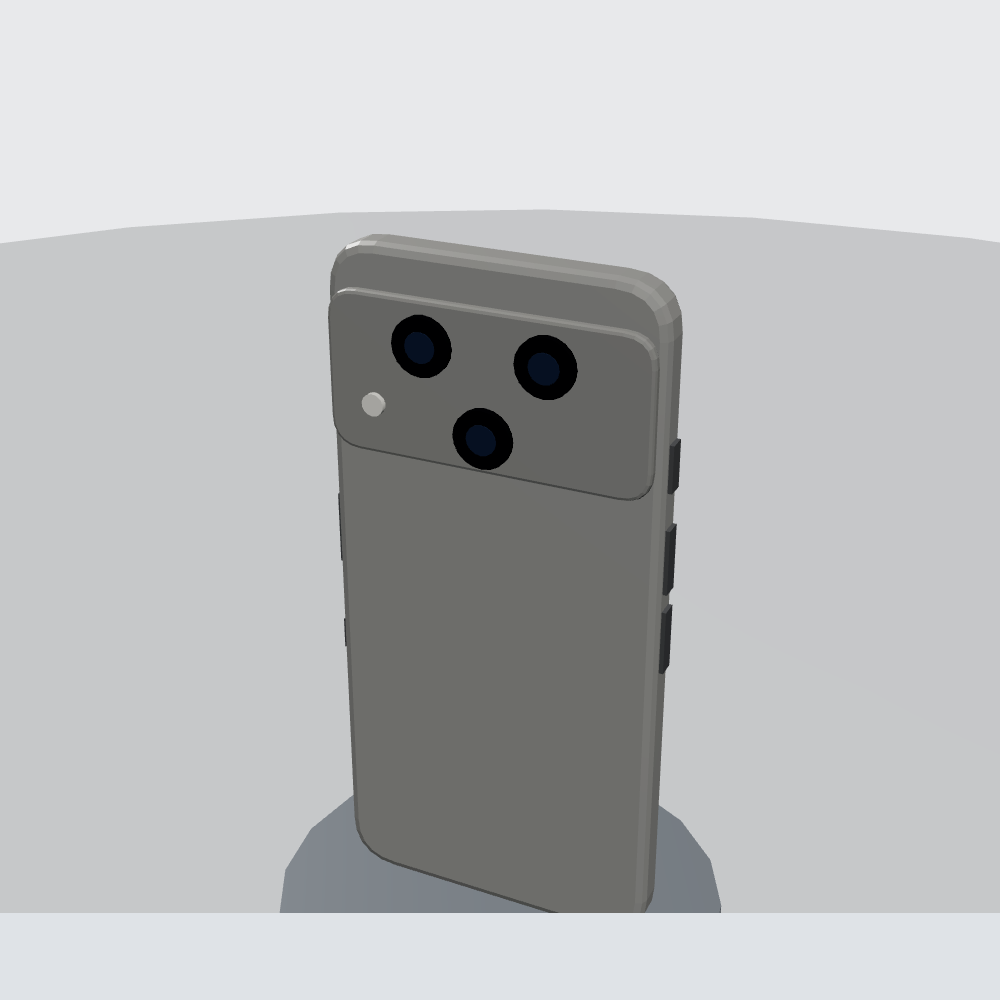
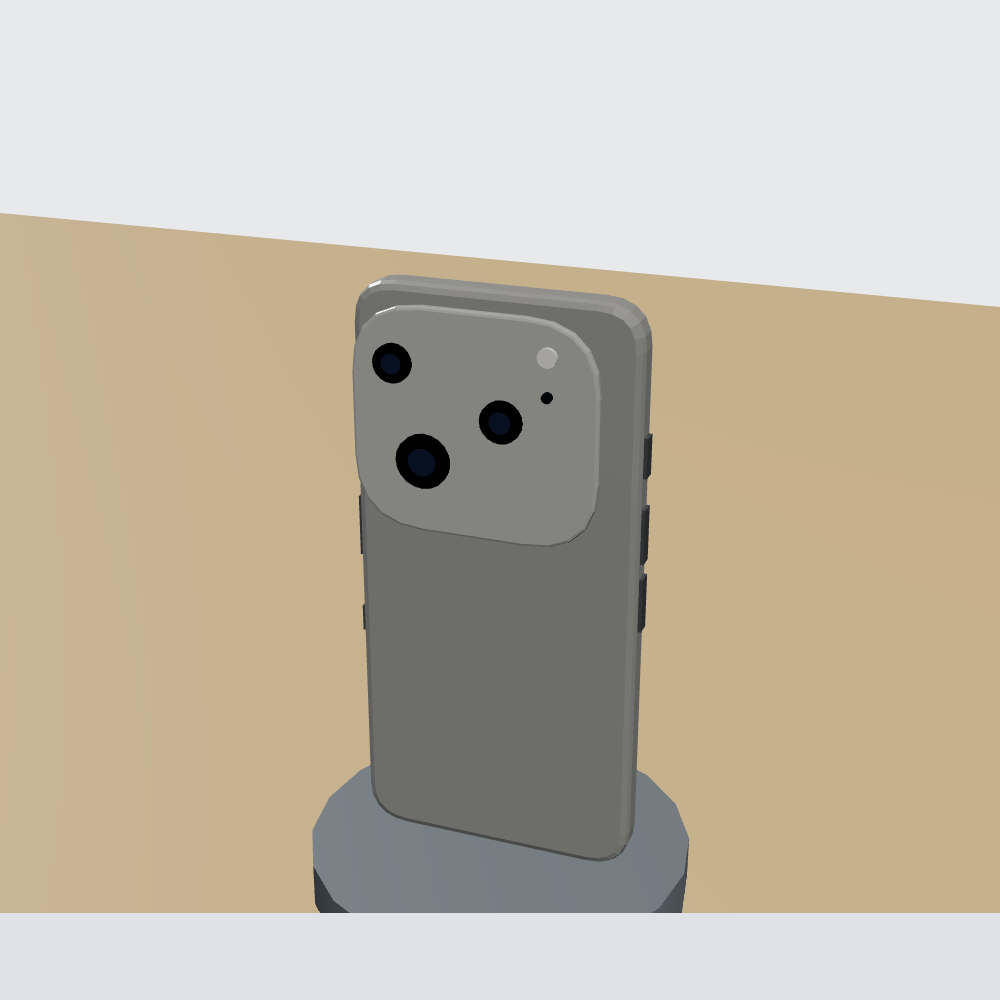
iPhone 18 Pro pilot model: square camera plateau, L-shaped lenses, home/lock screens
Corrected lens-cluster layout and the camera plateau shape (square, not
full-width) against a real marketing photo Ritesh supplied, after the first
pass got both wrong from pre-launch leak coverage. Added a home-screen vs
lock-screen toggle on phone screens (ScreenMode), and the ?device=1
DeviceStage dev route for orbiting one product alone, on a table-surface
scrap, for the per-model look check.

diff --git a/src/client/src/gfx/phones.tsx b/src/client/src/gfx/phones.tsx
@@ -70,8 +70,14 @@ export const SCREEN_WALLPAPERS: Array<[string, string, string]> = [
 
 export const screenCache = new Map<string, CanvasTexture>();
 
-export function screenTexture(kind: "phone" | "tablet" | "laptop" | "tabletKb" | "watch", variant: number): CanvasTexture {
-  const key = `${kind}:${variant}`;
+export type ScreenMode = "home" | "lock";
+
+// `home`: the app-grid look used everywhere today (sleek, modern — a device
+// someone is actually using). `lock`: the default lock screen a marketing
+// photo shows — just the wallpaper, a big time and date, a Dynamic-Island
+// pill, no app grid. Phone/tablet only; watch and laptop ignore `mode`.
+export function screenTexture(kind: "phone" | "tablet" | "laptop" | "tabletKb" | "watch", variant: number, mode: ScreenMode = "home"): CanvasTexture {
+  const key = `${kind}:${variant}:${mode}`;
   let tex = screenCache.get(key);
   if (tex) return tex;
   const [a, b, c] = SCREEN_WALLPAPERS[variant % SCREEN_WALLPAPERS.length];
@@ -94,6 +100,33 @@ export function screenTexture(kind: "phone" | "tablet" | "laptop" | "tabletKb" |
     g.arc(W * 0.72, H * 0.7, H * 0.34, 0, Math.PI * 2);
     g.fill();
     g.globalAlpha = 1;
+    if (mode === "lock" && (kind === "phone" || kind === "tablet")) {
+      // Dynamic-Island pill
+      g.fillStyle = "#0a0a0c";
+      const islandW = W * 0.34;
+      g.beginPath();
+      g.roundRect(W / 2 - islandW / 2, H * 0.025, islandW, H * 0.028, H * 0.014);
+      g.fill();
+      // big time, like the marketing lock-screen shots
+      g.fillStyle = "#ffffff";
+      g.textAlign = "center";
+      g.shadowColor = "rgba(0,0,0,0.35)";
+      g.shadowBlur = 4;
+      g.font = `600 ${Math.round(H * 0.15)}px -apple-system, system-ui, sans-serif`;
+      g.fillText("9:41", W / 2, H * 0.34);
+      g.font = `500 ${Math.round(H * 0.045)}px -apple-system, system-ui, sans-serif`;
+      g.fillText("Friday, 9 October", W / 2, H * 0.4);
+      g.shadowBlur = 0;
+      // bottom controls: flashlight and camera shortcuts
+      g.fillStyle = "rgba(255,255,255,0.22)";
+      for (const cx of [W * 0.18, W * 0.82]) {
+        g.beginPath();
+        g.arc(cx, H * 0.92, H * 0.035, 0, Math.PI * 2);
+        g.fill();
+      }
+      g.textAlign = "left";
+      return;
+    }
     if (kind === "watch") {
       g.fillStyle = "#0c0d10";
       g.fillRect(0, 0, W, H);
@@ -120,6 +153,122 @@ export function screenTexture(kind: "phone" | "tablet" | "laptop" | "tabletKb" |
       g.moveTo(W / 2, H / 2);
       g.lineTo(W / 2 - 6, H / 2 - 34);
       g.stroke();
+      return;
+    }
+    if (mode === "home" && kind === "phone") {
+      // a modern home screen: status bar, Dynamic Island, two widgets,
+      // a 4x4 icon grid, a search pill and a dock (no real app logos —
+      // icons are plain glyphs on invented colours).
+      g.fillStyle = "#ffffff";
+      g.textAlign = "left";
+      g.font = `600 ${Math.round(H * 0.032)}px -apple-system, system-ui, sans-serif`;
+      g.fillText("9:41", W * 0.05, H * 0.034);
+      g.textAlign = "right";
+      g.font = `${Math.round(H * 0.024)}px -apple-system, system-ui, sans-serif`;
+      g.fillText("▲○▮", W * 0.95, H * 0.032); // signal / wifi / battery, as plain glyphs
+      g.textAlign = "left";
+      const islandW = W * 0.3;
+      g.fillStyle = "#0a0a0c";
+      g.beginPath();
+      g.roundRect(W / 2 - islandW / 2, H * 0.048, islandW, H * 0.026, H * 0.013);
+      g.fill();
+      // two widgets
+      const gap = W * 0.045;
+      const wy = H * 0.1;
+      const wh = H * 0.165;
+      const ww = (W - gap * 3) / 2;
+      g.fillStyle = "rgba(20,30,45,0.55)";
+      g.beginPath();
+      g.roundRect(gap, wy, ww, wh, 8);
+      g.fill();
+      g.fillStyle = "#fff";
+      g.font = `600 ${Math.round(wh * 0.34)}px -apple-system, system-ui, sans-serif`;
+      g.fillText("18°", gap + 6, wy + wh * 0.5);
+      g.font = `400 ${Math.round(wh * 0.2)}px -apple-system, system-ui, sans-serif`;
+      g.fillText("Clear", gap + 6, wy + wh * 0.78);
+      g.fillStyle = "rgba(60,90,70,0.6)";
+      g.beginPath();
+      g.roundRect(gap * 2 + ww, wy, ww, wh, 8);
+      g.fill();
+      g.fillStyle = "rgba(255,255,255,0.85)";
+      g.beginPath();
+      g.arc(gap * 2 + ww + ww * 0.3, wy + wh * 0.4, wh * 0.16, 0, Math.PI * 2);
+      g.fill();
+      g.strokeStyle = "rgba(255,255,255,0.5)";
+      g.lineWidth = 1.5;
+      g.beginPath();
+      g.moveTo(gap * 2 + ww + ww * 0.15, wy + wh * 0.8);
+      g.lineTo(gap * 2 + ww + ww * 0.85, wy + wh * 0.65);
+      g.stroke();
+      // 4x4 icon grid, each a flat glyph (circle / ring / bars / square) so
+      // every tile reads as a different app without copying one
+      const gridTop = wy + wh + H * 0.03;
+      const cols4 = 4;
+      const rows4 = 4;
+      const cell = (W - gap * (cols4 + 1)) / cols4;
+      const pitch = cell + gap;
+      const palette = ["#ff9f0a", "#30d158", "#0a84ff", "#ff453a", "#5e5ce6", "#ffd60a", "#64d2ff", "#ff375f"];
+      for (let r = 0; r < rows4; r++) {
+        for (let k = 0; k < cols4; k++) {
+          const ix = gap + k * pitch;
+          const iy = gridTop + r * (cell + gap * 0.9);
+          const tint = palette[(variant * 3 + r * cols4 + k) % palette.length];
+          g.fillStyle = tint;
+          g.beginPath();
+          g.roundRect(ix, iy, cell, cell, cell * 0.24);
+          g.fill();
+          g.fillStyle = "rgba(255,255,255,0.92)";
+          const glyph = (r * cols4 + k) % 4;
+          const cx = ix + cell / 2;
+          const cy = iy + cell / 2;
+          if (glyph === 0) {
+            g.beginPath();
+            g.arc(cx, cy, cell * 0.22, 0, Math.PI * 2);
+            g.fill();
+          } else if (glyph === 1) {
+            g.fillRect(cx - cell * 0.2, cy - cell * 0.2, cell * 0.4, cell * 0.4);
+          } else if (glyph === 2) {
+            g.beginPath();
+            g.moveTo(cx, cy - cell * 0.22);
+            g.lineTo(cx + cell * 0.2, cy + cell * 0.16);
+            g.lineTo(cx - cell * 0.2, cy + cell * 0.16);
+            g.closePath();
+            g.fill();
+          } else {
+            g.lineWidth = cell * 0.08;
+            g.strokeStyle = "rgba(255,255,255,0.92)";
+            g.beginPath();
+            g.arc(cx, cy, cell * 0.2, 0.3, Math.PI * 1.4);
+            g.stroke();
+          }
+        }
+      }
+      // search pill, then a dock of 4 icons
+      const dockY = H * 0.93;
+      g.fillStyle = "rgba(230,230,235,0.3)";
+      g.textAlign = "center";
+      g.beginPath();
+      g.roundRect(W * 0.3, dockY - H * 0.095, W * 0.4, H * 0.034, H * 0.017);
+      g.fill();
+      g.fillStyle = "rgba(255,255,255,0.8)";
+      g.font = `${Math.round(H * 0.02)}px -apple-system, system-ui, sans-serif`;
+      g.fillText("Search", W / 2, dockY - H * 0.073);
+      g.textAlign = "left";
+      g.fillStyle = "rgba(235,235,240,0.4)";
+      g.beginPath();
+      g.roundRect(gap * 0.6, dockY - H * 0.004, W - gap * 1.2, H * 0.085, 10);
+      g.fill();
+      const dockPitch = (W - gap * 1.2) / 4;
+      const dockColours = ["#30d158", "#0a84ff", "#34c759", "#ff453a"];
+      for (let i = 0; i < 4; i++) {
+        const ix = gap * 0.6 + i * dockPitch + dockPitch * 0.14;
+        const iy = dockY + H * 0.008;
+        const s = dockPitch * 0.72;
+        g.fillStyle = dockColours[i];
+        g.beginPath();
+        g.roundRect(ix, iy, s, s, s * 0.26);
+        g.fill();
+      }
       return;
     }
     // status bar and a grid of app tiles
@@ -188,6 +337,7 @@ export function PhoneDevice({
   rotY,
   colour,
   model,
+  screenMode = "home",
 }: {
   kind: "phone" | "watch" | "earbuds" | "headphones" | "speaker" | "airtag";
   x: number;
@@ -196,9 +346,10 @@ export function PhoneDevice({
   rotY: number;
   colour: string;
   model?: string;
+  screenMode?: ScreenMode;
 }) {
   const spec = kind === "phone" && model ? PHONE_MODELS[model] : undefined;
-  const plateauColour = useMemo(() => shade(colour, 0.88), [colour]);
+  const plateauColour = useMemo(() => shade(colour, 0.78), [colour]);
   const built = useMemo(() => (spec ? buildPhoneBody(spec, colour, plateauColour) : null), [spec, colour, plateauColour]);
   return (
     <group position={[x, y, z]} rotation={[0, rotY, 0]}>
@@ -220,7 +371,7 @@ export function PhoneDevice({
           )}
           <mesh position={[0, 0, spec.thickness / 2 + 0.0004]}>
             <planeGeometry args={[spec.width * 0.86, spec.length * 0.9]} />
-            <meshBasicMaterial map={screenTexture("phone", SCREEN_VARIANT(colour))} toneMapped={false} />
+            <meshBasicMaterial map={screenTexture("phone", SCREEN_VARIANT(colour), screenMode)} toneMapped={false} />
           </mesh>
           <mesh position={[0, -spec.length / 2 - 0.006, 0]}>
             <cylinderGeometry args={[0.05, 0.05, 0.012, 20]} />

diff --git a/src/client/src/gfx/phones-geo.ts b/src/client/src/gfx/phones-geo.ts
@@ -131,7 +131,7 @@ export const torus = (R: number, t: number, rs = 8, ts = 24, arc = Math.PI * 2) 
 // every phone model: a camera-plateau shape, its lenses and a button layout
 // drive the geometry, so a new model is a new spec, not new drawing code.
 
-export type PlateauShape = "full-width" | "square" | "none";
+export type PlateauShape = "square" | "none";
 
 export interface PhoneModelSpec {
   id: string;
@@ -141,22 +141,28 @@ export interface PhoneModelSpec {
   cornerRadius: number; // m
   plateau: {
     shape: PlateauShape;
-    height: number; // m, vertical extent of the plateau block
-    inset: number; // m from the top edge to the plateau's top edge
+    width: number; // m
+    height: number; // m
+    radius: number; // m, the plateau's own (large, "squircle") corner rounding
+    inset: number; // m from the body's top edge to the plateau's top edge
     thickness: number; // m, how far the plateau stands proud of the back
-    lensRadius: number; // m, outer ring radius
-    lensPositions: Array<[number, number]>; // offsets from the plateau centre, m
-    flashOffset?: [number, number]; // offset from the plateau centre, m
+    lenses: Array<{ pos: [number, number]; r: number }>; // offsets from the plateau centre, m; first lens drawn is the main (largest)
+    extras?: Array<{ pos: [number, number]; r: number; colour: string }>; // flash, LiDAR, mic holes etc, offsets from the plateau centre, m
   };
   buttons: Array<{ side: -1 | 1; y: number; len: number }>; // y: m from body centre, +ve toward the top edge
 }
 
-// iPhone 18 Pro (6.3"): 150.0 x 71.9 x 8.75 mm, aluminium unibody, full-width
-// camera plateau (thicker than the 17 Pro's, ~11.5 mm total over the plateau),
-// 3-lens triangle (main, ultra wide, telephoto) with flash/LiDAR to the right,
-// action button + camera control added to the classic volume/side buttons.
-// Source: apple.com/au/iphone-18-pro/specs, apple.com/au/shop/buy-iphone/iphone-18-pro,
-// macrumors.com/roundup/iphone-18-pro (plateau shape) — fetched 2026-10-12.
+// iPhone 18 Pro (6.3"): 150.0 x 71.9 x 8.75 mm, aluminium unibody. Corrected
+// 2026-10-12 against a real marketing photo Ritesh supplied (not a web
+// fetch — no URL to cite, flagged for the catalogue doc): the plateau is a
+// large rounded SQUARE in the top-left, not a full-width bar (that was a
+// pre-launch leak, apparently wrong, from macrumors.com/2025/02/13/
+// iphone-17-pro-camera-design-leak — keep for history, don't reuse). Lenses
+// sit in an L: a smaller ultra-wide top-left, the larger main lens
+// bottom-left, telephoto to its right at mid-height; flash top-right of the
+// cluster, a sensor dot below it. Pricing/screen size/materials still from
+// apple.com/au/iphone-18-pro/specs and apple.com/au/shop/buy-iphone/
+// iphone-18-pro, fetched 2026-10-12.
 export const IPHONE_18_PRO: PhoneModelSpec = {
   id: "iphone-18-pro",
   length: 0.15,
@@ -164,17 +170,26 @@ export const IPHONE_18_PRO: PhoneModelSpec = {
   thickness: 0.00875,
   cornerRadius: 0.011,
   plateau: {
-    shape: "full-width",
-    height: 0.034,
-    inset: 0.009,
+    shape: "square",
+    width: 0.0618,
+    height: 0.057,
+    radius: 0.018,
+    inset: 0.0045,
     thickness: 0.0027,
-    lensRadius: 0.0062,
-    lensPositions: [
-      [-0.013, 0.008],
-      [0.013, 0.008],
-      [0, -0.009],
+    // x signs here are chosen so the plateau reads correctly in a straight-on
+    // view of the BACK (DeviceStage's default) — that view mirrors left/right
+    // relative to the body's own +x (verified empirically: a positive local x
+    // lands on screen-left when looking at -z). Matched against Ritesh's
+    // reference photo of the real back, 2026-10-12.
+    lenses: [
+      { pos: [0.0198, 0.0143], r: 0.0048 }, // ultra wide, top-left in the photo
+      { pos: [0.0124, -0.0096], r: 0.0068 }, // main, bottom-left (largest)
+      { pos: [-0.0074, 0.0029], r: 0.0052 }, // telephoto, right-mid
     ],
-    flashOffset: [0.024, -0.006],
+    extras: [
+      { pos: [-0.0186, 0.0199], r: 0.0024, colour: "#eceae2" }, // flash
+      { pos: [-0.0186, 0.0103], r: 0.0013, colour: "#1c2430" }, // sensor
+    ],
   },
   buttons: [
     { side: -1, y: 0.038, len: 0.01 }, // action button
@@ -199,18 +214,20 @@ export function buildPhoneBody(spec: PhoneModelSpec, bodyColour: string, plateau
   p.add("matte", slab(W, L, T, R), bodyColour);
   const pl = spec.plateau;
   if (pl.shape !== "none") {
-    const plateauW = pl.shape === "full-width" ? W - 0.003 : pl.height + 0.01;
+    const plateauCx = W / 2 - pl.width / 2 - (W - pl.width) * 0.07; // hugs screen-left in the back view, a small margin in from that edge
     const plateauCy = L / 2 - pl.inset - pl.height / 2;
     const plateauCz = -(T / 2 + pl.thickness / 2);
-    p.add("matte", slab(plateauW, pl.height, pl.thickness, Math.min(R * 0.6, pl.height / 2, plateauW / 2)), plateauColour, [0, plateauCy, plateauCz]);
+    // the plateau is a visibly different finish from the body (two-tone
+    // back), not just a darker tint of the same material: glossier and a
+    // touch cooler, the way a polished vs bead-blasted aluminium patch reads.
+    p.add("gloss", slab(pl.width, pl.height, pl.thickness, pl.radius), plateauColour, [plateauCx, plateauCy, plateauCz]);
     const lensZ = -(T / 2 + pl.thickness + 0.0008);
-    for (const [lx, ly] of pl.lensPositions) {
-      p.add("gloss", cyl(pl.lensRadius, pl.lensRadius, 0.0016, 20), "#111318", [lx, plateauCy + ly, lensZ], [Math.PI / 2, 0, 0]);
-      p.add("gloss", cyl(pl.lensRadius * 0.52, pl.lensRadius * 0.52, 0.0018, 16), "#2c3c56", [lx, plateauCy + ly, lensZ - 0.0001], [Math.PI / 2, 0, 0]);
+    for (const l of pl.lenses) {
+      p.add("gloss", cyl(l.r, l.r, 0.0016, 20), "#111318", [plateauCx + l.pos[0], plateauCy + l.pos[1], lensZ], [Math.PI / 2, 0, 0]);
+      p.add("gloss", cyl(l.r * 0.52, l.r * 0.52, 0.0018, 16), "#2c3c56", [plateauCx + l.pos[0], plateauCy + l.pos[1], lensZ - 0.0001], [Math.PI / 2, 0, 0]);
     }
-    if (pl.flashOffset) {
-      const [fx, fy] = pl.flashOffset;
-      p.add("gloss", cyl(0.0024, 0.0024, 0.0012, 14), "#eceae2", [fx, plateauCy + fy, lensZ], [Math.PI / 2, 0, 0]);
+    for (const e of pl.extras ?? []) {
+      p.add("gloss", cyl(e.r, e.r, 0.0012, 14), e.colour, [plateauCx + e.pos[0], plateauCy + e.pos[1], lensZ], [Math.PI / 2, 0, 0]);
     }
   }
   for (const b of spec.buttons) {

diff --git a/src/client/src/gfx/DeviceStage.tsx b/src/client/src/gfx/DeviceStage.tsx
@@ -2,12 +2,14 @@ import { OrbitControls } from "@react-three/drei";
 import { Canvas } from "@react-three/fiber";
 import { Device } from "./Device.tsx";
 import { DEVICE_COLOURS, WOOD, type Kind } from "./common.tsx";
+import type { ScreenMode } from "./phones.tsx";
 
 // Dev only (`?device=1`): one product alone on a plinth, for the per-model
 // look check (graphics-brief "check your work" step 3). Not the in-store
 // pose — the camera starts behind the device so a camera plateau or back
 // design reads clearly; drag to orbit. Query params: `kind` (default phone),
-// `model` (a PHONE_MODELS id), `colour` (hex), `yaw`/`pitch` (degrees) and
+// `model` (a PHONE_MODELS id), `colour` (hex), `screen` (`home` or `lock`,
+// switches the default camera to face front), `yaw`/`pitch` (degrees) and
 // `dist`/`h` (m) place a fixed camera for a headless screenshot.
 
 const Q = new URLSearchParams(location.search);
@@ -16,7 +18,8 @@ export function DeviceStage() {
   const kind = (Q.get("kind") ?? "phone") as Kind;
   const model = Q.get("model") ?? undefined;
   const colour = Q.get("colour") ?? DEVICE_COLOURS[0];
-  const yaw = ((Number(Q.get("yaw") ?? "200")) * Math.PI) / 180;
+  const screenMode = (Q.get("screen") as ScreenMode | null) ?? undefined;
+  const yaw = ((Number(Q.get("yaw") ?? (screenMode ? "20" : "200"))) * Math.PI) / 180;
   const pitch = ((Number(Q.get("pitch") ?? "-14")) * Math.PI) / 180;
   const dist = Number(Q.get("dist") ?? "0.4");
   const h = Number(Q.get("h") ?? "0.2");
@@ -34,12 +37,13 @@ export function DeviceStage() {
           <planeGeometry args={[1.2, 1.2]} />
           <meshStandardMaterial color={WOOD} roughness={0.55} />
         </mesh>
-        <Device kind={kind} model={model} x={0} y={0} z={0} rotY={0} colour={colour} />
+        <Device kind={kind} model={model} x={0} y={0} z={0} rotY={0} colour={colour} screenMode={screenMode} />
         <OrbitControls target={target} />
       </Canvas>
       {Q.get("ui") !== "0" && (
         <div style={{ position: "fixed", left: 16, top: 16, font: "13px system-ui", color: "#111", background: "#fffc", padding: "6px 10px", borderRadius: 8 }}>
           {model ?? `${kind} (no model)`} · {colour}
+          {screenMode ? ` · ${screenMode} screen` : ""}
         </div>
       )}
     </>

diff --git a/src/client/src/gfx/Device.tsx b/src/client/src/gfx/Device.tsx
@@ -1,6 +1,6 @@
 import { ComputerDevice } from "./computers.tsx";
 import type { Kind } from "./common.tsx";
-import { PhoneDevice } from "./phones.tsx";
+import { PhoneDevice, type ScreenMode } from "./phones.tsx";
 
 // One product on a surface at height `y`, facing along `rotY` (0 faces +z).
 // Each family is drawn by its own module: computers.tsx (laptops and tablets)
@@ -13,6 +13,7 @@ export function Device({
   rotY,
   colour,
   model,
+  screenMode,
 }: {
   kind: Kind;
   x: number;
@@ -21,9 +22,10 @@ export function Device({
   rotY: number;
   colour: string;
   model?: string;
+  screenMode?: ScreenMode;
 }) {
   if (kind === "laptop" || kind === "tabletKb" || kind === "tablet") {
     return <ComputerDevice kind={kind} x={x} y={y} z={z} rotY={rotY} colour={colour} />;
   }
-  return <PhoneDevice kind={kind} x={x} y={y} z={z} rotY={rotY} colour={colour} model={model} />;
+  return <PhoneDevice kind={kind} x={x} y={y} z={z} rotY={rotY} colour={colour} model={model} screenMode={screenMode} />;
 }
